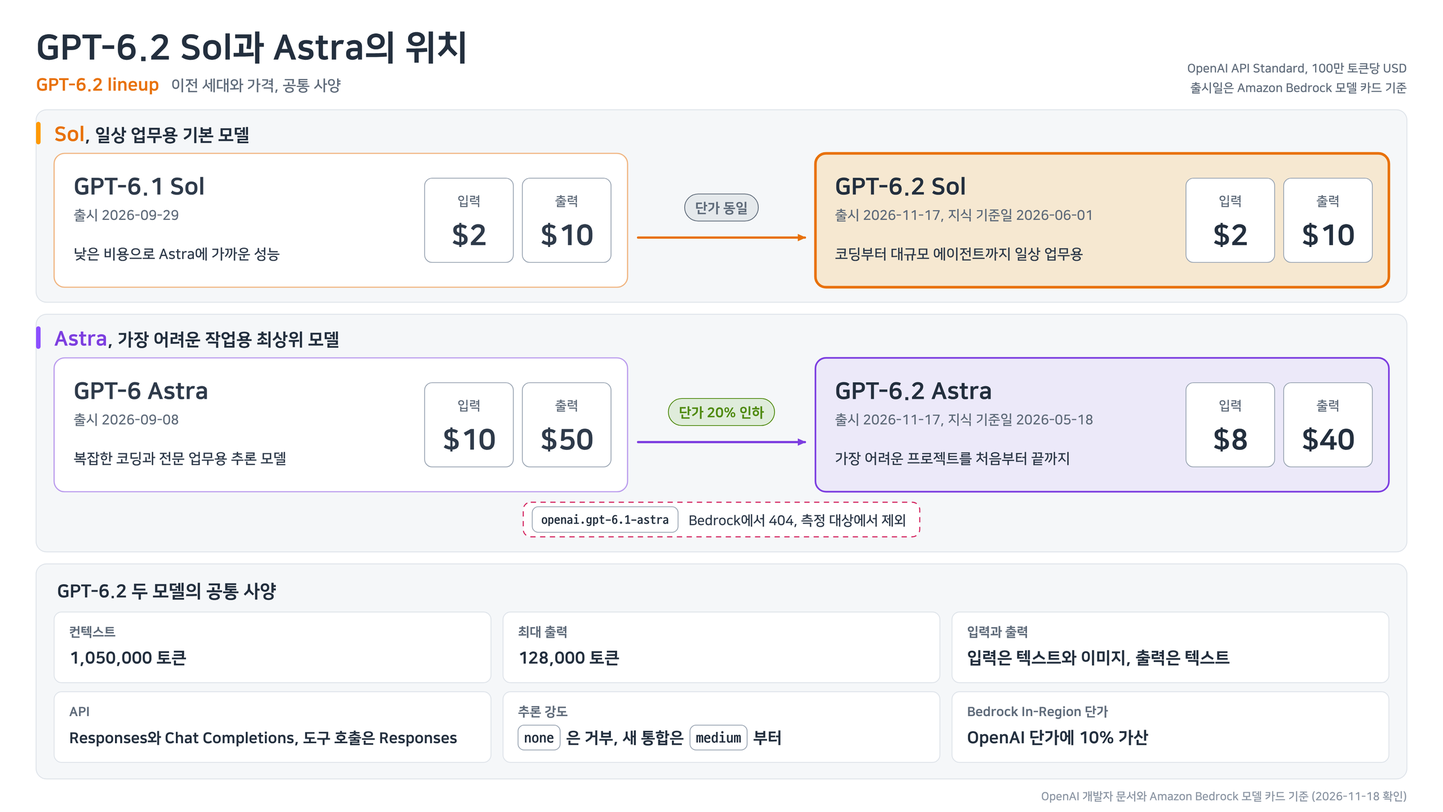
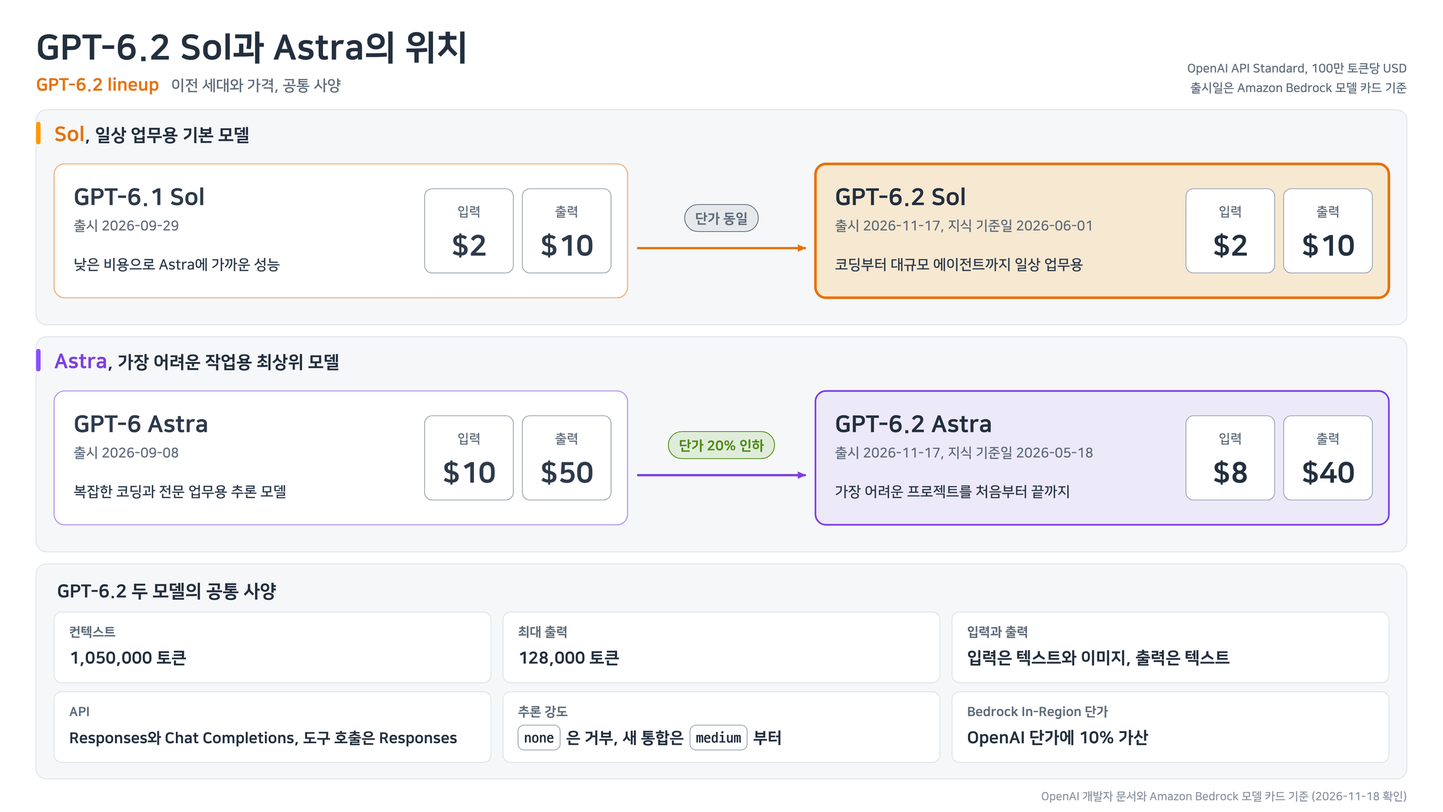
fix: reword the "GPT-6.2 Sol and Astra" post
- Korean wording: "수정하다" for fixing code, "비교하다" for comparing, "첫 결과" for the first
  response that was graded, "다음 챕터", "정확도의 한계", and "이 글은 두 가지를 비교해 봅니다"
- The sentence about the model ID openai.gpt-6.1-astra is removed from both languages, and the
  matching note is removed from figure 1
- The test Region sentence now names both In-Region and Mantle calls
- Figure 5 (Korean): "첫 결과" in the scope line

diff --git a/docs/techblog/aiml/gpt-6-2-sol-astra-official-vs-test-report.html b/docs/techblog/aiml/gpt-6-2-sol-astra-official-vs-test-report.html
@@ -4,7 +4,7 @@
 <meta charset="utf-8">
 <meta name="viewport" content="width=device-width, initial-scale=1">
 <title>GPT-6.2 Sol과 Astra, 공식 발표 내용과 실제 테스트 결과</title>
-<meta name="description" content="OpenAI가 공개한 GPT-6.2 Sol과 Astra의 공식 소개 내용을 정리하고 Amazon Bedrock에서 공개 Python 버그 24개로 직접 테스트한 결과와 비교했습니다. 네 모델 모두 24개를 고쳤고 GPT-6.2 Sol은 응답 시간, 출력 토큰, 비용이 모두 가장 낮았습니다.">
+<meta name="description" content="OpenAI가 공개한 GPT-6.2 Sol과 Astra의 공식 소개 내용을 정리하고 Amazon Bedrock에서 공개 Python 버그 24개로 직접 테스트한 결과와 비교했습니다. 네 모델 모두 24개를 수정했고 GPT-6.2 Sol은 응답 시간, 출력 토큰, 비용이 모두 가장 낮았습니다.">
 <link rel="canonical" href="https://whchoi98.github.io/docs/techblog/aiml/gpt-6-2-sol-astra-official-vs-test/">
 <script>
 /* 첫 화면을 그리기 전에 언어와 테마를 정한다. 블로그의 report 레이아웃이 같은 키를 미리 써 둔다. */
@@ -198,23 +198,23 @@ html[data-lang="en"] .l-ko{display:none!important}
 <header class="masthead">
 <div class="meta-top"><span class="mono"><span class="l-ko">게시 2026-11-18</span><span class="l-en">Published 2026-11-18</span></span><span>AIML</span><span><span class="l-ko">읽는 시간 16분</span><span class="l-en">16 min read</span></span></div>
 <h1><span class="l-ko">GPT-6.2 Sol과 Astra, 공식 발표 내용과 실제 테스트 결과</span><span class="l-en">GPT-6.2 Sol and Astra: the official announcement and real test results</span></h1>
-<p class="thesis"><span class="l-ko">OpenAI가 2026년 11월 17일에 공개한 GPT-6.2 Sol과 Astra의 공식 소개 내용을 정리하고 Amazon Bedrock에서 공개 Python 버그 24개를 고치게 해 실제로 테스트해 보았습니다. 이전 세대를 포함한 네 모델 모두 24개를 첫 제출에서 고쳐 정확도로는 순위를 가릴 수 없었습니다. 차이는 속도와 토큰에서 나왔습니다. GPT-6.2 Sol은 응답 시간 중앙값 1.56초, 출력 토큰 3,450개, 추정 비용 0.1169 USD로 세 항목 모두 가장 낮았습니다. 같은 추론 강도에서 추론 토큰을 거의 사용하지 않은 것이 원인이었습니다.</span><span class="l-en">This post summarizes what OpenAI officially said about GPT-6.2 Sol and Astra, released on November 17, 2026, and reports a hands-on test in which the models fixed 24 public Python bugs on Amazon Bedrock. All four models, including the previous generation, fixed all 24 on the first attempt, so accuracy could not rank them. The differences were in speed and tokens. GPT-6.2 Sol was lowest on all three measures: a median response time of 1.56 seconds, 3,450 output tokens and an estimated cost of 0.1169 USD. The cause was that it used almost no reasoning tokens at the same reasoning effort.</span></p>
+<p class="thesis"><span class="l-ko">OpenAI가 2026년 11월 17일에 공개한 GPT-6.2 Sol과 Astra의 공식 소개 내용을 정리하고 Amazon Bedrock에서 공개 Python 버그 24개를 수정하게 해 실제로 테스트해 보았습니다. 이전 세대를 포함한 네 모델 모두 24개를 첫 결과에서 수정해 정확도로는 순위를 가릴 수 없었습니다. 차이는 속도와 토큰에서 나왔습니다. GPT-6.2 Sol은 응답 시간 중앙값 1.56초, 출력 토큰 3,450개, 추정 비용 0.1169 USD로 세 항목 모두 가장 낮았습니다. 같은 추론 강도에서 추론 토큰을 거의 사용하지 않은 것이 원인이었습니다.</span><span class="l-en">This post summarizes what OpenAI officially said about GPT-6.2 Sol and Astra, released on November 17, 2026, and reports a hands-on test in which the models fixed 24 public Python bugs on Amazon Bedrock. All four models, including the previous generation, fixed all 24 on the first attempt, so accuracy could not rank them. The differences were in speed and tokens. GPT-6.2 Sol was lowest on all three measures: a median response time of 1.56 seconds, 3,450 output tokens and an estimated cost of 0.1169 USD. The cause was that it used almost no reasoning tokens at the same reasoning effort.</span></p>
 <div class="tags"><span>#GPT-6.2</span><span>#OpenAI</span><span>#Amazon Bedrock</span><span>#Benchmark</span><span>#Reasoning tokens</span><span>#Cost</span></div>
-<ul class="facts"><li><span class="l-ko"><b>정확도</b>: 네 모델 모두 공개 Python 버그 24개를 첫 제출에서 고쳤습니다. 이 테스트로는 정확도 순위를 정할 수 없습니다.</span><span class="l-en"><b>Accuracy</b>: all four models fixed all 24 public Python bugs on the first attempt. This test cannot rank them on accuracy.</span></li><li><span class="l-ko"><b>응답 속도</b>: GPT-6.2 Sol의 응답 시간 중앙값은 1.56초로 GPT-6.1 Sol의 7.99초보다 80% 짧았고 24개 과제 전부에서 네 모델 가운데 가장 빨랐습니다.</span><span class="l-en"><b>Response speed</b>: the median response time of GPT-6.2 Sol was 1.56 seconds, 80% shorter than the 7.99 seconds of GPT-6.1 Sol, and it was the fastest of the four on all 24 tasks.</span></li><li><span class="l-ko"><b>출력 토큰</b>: 같은 과제에서 출력 토큰이 8,708개에서 3,450개로 60% 줄었습니다. 추론 토큰이 5,854개에서 75개로 줄어든 결과입니다.</span><span class="l-en"><b>Output tokens</b>: on the same tasks output tokens fell 60%, from 8,708 to 3,450, because reasoning tokens fell from 5,854 to 75.</span></li><li><span class="l-ko"><b>가성비</b>: 단가는 GPT-6.1 Sol과 같고 24건 추정 비용은 29.5% 낮았습니다. GPT-6.2 Astra 비용의 약 5분의 1로, OpenAI의 설명과 같은 수준입니다.</span><span class="l-en"><b>Value for money</b>: the unit price equals that of GPT-6.1 Sol and the estimated cost of the 24 tasks was 29.5% lower. It is about one fifth of the cost of GPT-6.2 Astra, in line with what OpenAI describes.</span></li><li><span class="l-ko"><b>주의할 점</b>: 테스트까지 작성하는 기초 과제에서 GPT-6.2 Sol의 테스트는 결함 42건을 모두 잡았지만 지정한 예외 유형을 지킨 것은 36건이었습니다.</span><span class="l-en"><b>Caveat</b>: on the basic tasks that also asked for tests, the tests written by GPT-6.2 Sol caught all 42 injected defects but reported 36 of them with the requested exception type.</span></li></ul>
+<ul class="facts"><li><span class="l-ko"><b>정확도</b>: 네 모델 모두 공개 Python 버그 24개를 첫 결과에서 수정했습니다. 이 테스트로는 정확도 순위를 정할 수 없습니다.</span><span class="l-en"><b>Accuracy</b>: all four models fixed all 24 public Python bugs on the first attempt. This test cannot rank them on accuracy.</span></li><li><span class="l-ko"><b>응답 속도</b>: GPT-6.2 Sol의 응답 시간 중앙값은 1.56초로 GPT-6.1 Sol의 7.99초보다 80% 짧았고 24개 과제 전부에서 네 모델 가운데 가장 빨랐습니다.</span><span class="l-en"><b>Response speed</b>: the median response time of GPT-6.2 Sol was 1.56 seconds, 80% shorter than the 7.99 seconds of GPT-6.1 Sol, and it was the fastest of the four on all 24 tasks.</span></li><li><span class="l-ko"><b>출력 토큰</b>: 같은 과제에서 출력 토큰이 8,708개에서 3,450개로 60% 줄었습니다. 추론 토큰이 5,854개에서 75개로 줄어든 결과입니다.</span><span class="l-en"><b>Output tokens</b>: on the same tasks output tokens fell 60%, from 8,708 to 3,450, because reasoning tokens fell from 5,854 to 75.</span></li><li><span class="l-ko"><b>가성비</b>: 단가는 GPT-6.1 Sol과 같고 24건 추정 비용은 29.5% 낮았습니다. GPT-6.2 Astra 비용의 약 5분의 1로, OpenAI의 설명과 같은 수준입니다.</span><span class="l-en"><b>Value for money</b>: the unit price equals that of GPT-6.1 Sol and the estimated cost of the 24 tasks was 29.5% lower. It is about one fifth of the cost of GPT-6.2 Astra, in line with what OpenAI describes.</span></li><li><span class="l-ko"><b>주의할 점</b>: 테스트까지 작성하는 기초 과제에서 GPT-6.2 Sol의 테스트는 결함 42건을 모두 잡았지만 지정한 예외 유형을 지킨 것은 36건이었습니다.</span><span class="l-en"><b>Caveat</b>: on the basic tasks that also asked for tests, the tests written by GPT-6.2 Sol caught all 42 injected defects but reported 36 of them with the requested exception type.</span></li></ul>
 </header>
-<nav class="toc l-ko" aria-label="목차"><span class="toc-label">목차</span><a href="#ko-s1">같은 버그 24개, 응답 시간 중앙값이 7.99초에서 1.56초로</a><a href="#ko-s2">OpenAI가 소개한 GPT-6.2 Sol과 Astra</a><a href="#ko-s3">테스트 방법: 공개 Python 버그 24개와 기초 과제 3개</a><a href="#ko-s4">정확도: 네 모델 모두 24개를 첫 제출에서 수정</a><a href="#ko-s5">GPT-6.2 Sol의 응답 속도, 출력 토큰, 가성비</a><a href="#ko-s6">수치의 이유: 추론 토큰이 5,854개에서 75개로</a><a href="#ko-s7">공식 발표와 테스트 결과 비교</a><a href="#ko-s8">시사점: 같은 정답을 더 적은 토큰으로</a><a href="#ko-s9">주의할 점과 한계</a><a href="#ko-s10">적용 기준: 어떤 작업에 어느 모델을 먼저 쓸 것인가</a><a href="#sources">참고 자료</a></nav>
+<nav class="toc l-ko" aria-label="목차"><span class="toc-label">목차</span><a href="#ko-s1">같은 버그 24개, 응답 시간 중앙값이 7.99초에서 1.56초로</a><a href="#ko-s2">OpenAI가 소개한 GPT-6.2 Sol과 Astra</a><a href="#ko-s3">테스트 방법: 공개 Python 버그 24개와 기초 과제 3개</a><a href="#ko-s4">정확도: 네 모델 모두 24개를 첫 결과에서 수정</a><a href="#ko-s5">GPT-6.2 Sol의 응답 속도, 출력 토큰, 가성비</a><a href="#ko-s6">수치의 이유: 추론 토큰이 5,854개에서 75개로</a><a href="#ko-s7">공식 발표와 테스트 결과 비교</a><a href="#ko-s8">시사점: 같은 정답을 더 적은 토큰으로</a><a href="#ko-s9">주의할 점과 한계</a><a href="#ko-s10">적용 기준: 어떤 작업에 어느 모델을 먼저 쓸 것인가</a><a href="#sources">참고 자료</a></nav>
 <nav class="toc l-en" aria-label="Contents"><span class="toc-label">Contents</span><a href="#en-s1">The same 24 bugs, median response time from 7.99 to 1.56 seconds</a><a href="#en-s2">GPT-6.2 Sol and Astra as OpenAI introduced them</a><a href="#en-s3">Test method: 24 public Python bugs and 3 basic tasks</a><a href="#en-s4">Accuracy: all four models fixed all 24 on the first attempt</a><a href="#en-s5">GPT-6.2 Sol: response speed, output tokens and value for money</a><a href="#en-s6">Why the numbers moved: reasoning tokens from 5,854 to 75</a><a href="#en-s7">The official announcement against the test results</a><a href="#en-s8">What it means: the same correct answer for fewer tokens</a><a href="#en-s9">Caveats and limits</a><a href="#en-s10">When to apply it: which model to try first for which work</a><a href="#sources">References</a></nav>
 <div class="col l-ko" lang="ko">
 <section class="sec" id="ko-s1"><header class="sec-head"><h2>같은 버그 24개, 응답 시간 중앙값이 7.99초에서 1.56초로</h2></header><div class="prose">
-<p>OpenAI가 2026년 11월 17일에 GPT-6.2 Astra와 GPT-6.2 Sol을 공개했습니다. 다음 날 Amazon Bedrock에서 두 모델과 이전 세대인 GPT-6.1 Sol, GPT-6 Astra에 같은 Python 버그 24개를 고치게 했습니다. 네 모델 모두 24개를 첫 제출에서 고쳤습니다.</p>
+<p>OpenAI가 2026년 11월 17일에 GPT-6.2 Astra와 GPT-6.2 Sol을 공개했습니다. 다음 날 Amazon Bedrock에서 두 모델과 이전 세대인 GPT-6.1 Sol, GPT-6 Astra에 같은 Python 버그 24개를 수정하게 했습니다. 네 모델 모두 24개를 첫 결과에서 수정했습니다.</p>
 <p>차이는 시간과 토큰에서 나왔습니다. GPT-6.2 Sol의 응답 시간 중앙값은 1.56초로, 같은 과제를 푼 GPT-6.1 Sol의 7.99초보다 80% 짧았습니다. 출력 토큰은 8,708개에서 3,450개로 줄었습니다. 두 모델의 단가가 같아서 24건의 추정 비용도 29.5% 낮아졌습니다.</p>
-<p>이 글은 두 가지를 나란히 놓습니다. 하나는 OpenAI가 공식 문서와 공지에서 밝힌 GPT-6.2의 특징이고 다른 하나는 같은 조건에서 직접 테스트한 결과입니다. 공식 자료에는 기본 등급의 응답 속도를 수치로 밝힌 문장이 없습니다. 그래서 속도와 토큰 수는 테스트 결과로 확인했습니다.</p>
+<p>이 글은 두 가지를 비교해 봅니다. 하나는 OpenAI가 공식 문서와 공지에서 밝힌 GPT-6.2의 특징이고 다른 하나는 같은 조건에서 직접 테스트한 결과입니다. 공식 자료에는 기본 등급의 응답 속도를 수치로 밝힌 문장이 없습니다. 그래서 속도와 토큰 수는 테스트 결과로 확인했습니다.</p>
 <p>테스트는 수정할 위치가 주어진 짧은 과제이고 과제마다 모델당 한 번씩 실행했습니다. 결과를 일반화할 때의 한계는 글 뒤쪽에 따로 정리했습니다.</p>
 </div></section>
 
 <section class="sec" id="ko-s2"><header class="sec-head"><p class="eyebrow">01</p><h2>OpenAI가 소개한 GPT-6.2 Sol과 Astra</h2></header><div class="prose">
 <p>GPT-6.2는 두 모델로 나왔습니다. <a href="https://community.openai.com/t/gpt-6-2-astra-and-sol-are-now-available/1417531" target="_blank" rel="noopener">OpenAI 개발자 커뮤니티 공지</a>는 Astra를 가장 어려운 프로젝트를 위한 최상위 모델로, Sol을 일상 업무를 위한 효율적이고 다재다능한 모델로 소개합니다. 두 모델은 ChatGPT Work와 Codex, API에서 사용할 수 있습니다.</p>
-<p>어느 모델이 어느 모델의 다음 세대인지는 Amazon Bedrock 모델 카드에 적혀 있습니다. <a href="https://docs.aws.amazon.com/bedrock/latest/userguide/model-card-openai-gpt-6-2-sol.html" target="_blank" rel="noopener">GPT-6.2 Sol</a>은 GPT-6.1 Sol의 다음 세대이고 <a href="https://docs.aws.amazon.com/bedrock/latest/userguide/model-card-openai-gpt-6-2-astra.html" target="_blank" rel="noopener">GPT-6.2 Astra</a>는 GPT-6 Astra의 다음 세대입니다. Bedrock에 <code>openai.gpt-6.1-astra</code>라는 모델 ID를 요청하면 404가 돌아옵니다. 그래서 이 글에서 Astra의 비교 대상은 GPT-6 Astra입니다.</p>
+<p>어느 모델이 어느 모델의 다음 세대인지는 Amazon Bedrock 모델 카드에 적혀 있습니다. <a href="https://docs.aws.amazon.com/bedrock/latest/userguide/model-card-openai-gpt-6-2-sol.html" target="_blank" rel="noopener">GPT-6.2 Sol</a>은 GPT-6.1 Sol의 다음 세대이고 <a href="https://docs.aws.amazon.com/bedrock/latest/userguide/model-card-openai-gpt-6-2-astra.html" target="_blank" rel="noopener">GPT-6.2 Astra</a>는 GPT-6 Astra의 다음 세대입니다. 이 글에서 Astra의 비교 대상은 GPT-6 Astra입니다.</p>
 <figure class="fig"><div class="canvas wide"><img src="gpt-6-2-sol-astra-official-vs-test-assets/fig01-lineup.png" alt="Sol과 Astra 두 줄로 이전 세대와 GPT-6.2 모델의 출시일, 입력과 출력 단가, 한 줄 설명을 나란히 놓고 아래에 GPT-6.2 두 모델의 공통 사양 여섯 가지를 정리한 그림" width="1280" height="720" loading="lazy"></div><figcaption><b>그림 1.</b> GPT-6.2 Sol과 Astra의 이전 세대, 단가, 공통 사양. 단가는 OpenAI API Standard 기준이고 출시일은 Amazon Bedrock 모델 카드 기준</figcaption></figure>
 <h3>가격과 사양</h3>
 <p>Sol의 단가는 이전 세대와 같고 Astra의 단가는 입력과 출력 모두 20% 내렸습니다. 컨텍스트 크기와 최대 출력은 네 모델이 같습니다.</p>
@@ -234,7 +234,7 @@ html[data-lang="en"] .l-ko{display:none!important}
 </table></div>
 <p class="cap"><b>표 1.</b> OpenAI 개발자 문서의 모델 페이지에 적힌 사양. 단가는 Standard 등급, 입력 272,000토큰 이하 요청의 100만 토큰당 USD (2026-11-18 확인)</p>
 <h3>공식 자료가 말하는 특징</h3>
-<p>공지, <a href="https://developers.openai.com/api/docs/changelog" target="_blank" rel="noopener">Changelog</a>, 모델 페이지, <a href="https://developers.openai.com/api/docs/guides/latest-model?model=gpt-6.2-astra" target="_blank" rel="noopener">최신 모델 가이드</a>에서 이 글의 테스트와 견줄 내용을 뽑으면 여섯 가지입니다.</p>
+<p>공지, <a href="https://developers.openai.com/api/docs/changelog" target="_blank" rel="noopener">Changelog</a>, 모델 페이지, <a href="https://developers.openai.com/api/docs/guides/latest-model?model=gpt-6.2-astra" target="_blank" rel="noopener">최신 모델 가이드</a>에서 이 글의 테스트와 비교할 내용을 뽑으면 여섯 가지입니다.</p>
 <ul>
 <li><b>Sol의 비용 대비 성능</b>: 공지는 실제 코드베이스에 병합 가능한 변경을 만드는 FrontierCode 2.0 평가에서 Sol이 Astra에 근접한 결과를 약 5분의 1 비용에 냈다고 소개합니다.</li>
 <li><b>Astra의 작업당 비용</b>: 공지에는 GPT-6.2 Astra의 작업당 비용이 GPT-6 Astra의 3분의 1 미만이라는 문장이 있습니다. Agents' Last Exam 평가에서는 더 높은 점수를 절반 미만의 작업당 비용으로 냈다고 적혀 있습니다.</li>
@@ -243,7 +243,7 @@ html[data-lang="en"] .l-ko{display:none!important}
 <li><b>추론량 조절</b>: <a href="https://developers.openai.com/api/docs/guides/reasoning" target="_blank" rel="noopener">추론 가이드</a>에 따르면 추론 모델은 같은 추론 강도 안에서도 단순한 과제에는 토큰을 적게 사용하고 복잡한 과제에는 더 오래 생각합니다. 추론 토큰은 화면에 보이지 않지만 출력 토큰으로 과금됩니다.</li>
 <li><b>API 변경</b>: 두 모델은 Responses API와 Chat Completions를 지원하고 도구 호출에는 Responses API가 필요합니다. <code>temperature</code>와 <code>top_p</code> 같은 매개변수는 요청에서 빼야 합니다.</li>
 </ul>
-<p>응답 속도는 다르게 다룹니다. 공식 자료에 기본 등급의 속도를 이전 세대와 견준 수치는 없습니다. 속도 수치는 별도 요금의 Ultrafast 등급에만 있습니다. Bedrock 모델 카드는 OpenAI가 이 등급의 API 속도를 Standard보다 최대 6배 빠르다고 밝혔다고 적고 있고 요금은 2027년 2월 28일까지 Standard의 3배, 그 뒤에는 6배입니다.</p>
+<p>응답 속도는 다르게 다룹니다. 공식 자료에 기본 등급의 속도를 이전 세대와 비교한 수치는 없습니다. 속도 수치는 별도 요금의 Ultrafast 등급에만 있습니다. Bedrock 모델 카드는 OpenAI가 이 등급의 API 속도를 Standard보다 최대 6배 빠르다고 밝혔다고 적고 있고 요금은 2027년 2월 28일까지 Standard의 3배, 그 뒤에는 6배입니다.</p>
 <h3>Amazon Bedrock에서 호출하는 방법</h3>
 <p>두 모델은 출시일인 11월 17일부터 Amazon Bedrock에서 호출할 수 있습니다. 엔드포인트와 추론 옵션에 따라 모델 ID와 단가가 달라집니다. In-Region과 지역 교차 리전 추론(Geo CRIS)의 단가에는 OpenAI 단가의 10%가 더해져 있고 글로벌 교차 리전 추론(Global CRIS)은 OpenAI 단가와 같습니다.</p>
 <div class="scroll"><table>
@@ -257,11 +257,11 @@ html[data-lang="en"] .l-ko{display:none!important}
 </tbody>
 </table></div>
 <p class="cap"><b>표 2.</b> Amazon Bedrock 모델 카드의 호출 경로와 Standard 등급 단가. 입력 272,000토큰 이하 요청의 100만 토큰당 USD (2026-11-18 확인)</p>
-<p>서울 리전(ap-northeast-2)은 모델 카드에 <code>bedrock-runtime</code>의 Global CRIS만 지원하는 것으로 표시되어 있습니다. 서울에서 호출하려면 <code>global.</code>로 시작하는 추론 프로파일 ID를 사용합니다. 이 글의 테스트는 In-Region 호출이 가능한 us-east-1에서 진행했습니다.</p>
+<p>서울 리전(ap-northeast-2)은 모델 카드에 <code>bedrock-runtime</code>의 Global CRIS만 지원하는 것으로 표시되어 있습니다. 서울에서 호출하려면 <code>global.</code>로 시작하는 추론 프로파일 ID를 사용합니다. 이 글의 테스트는 In-Region 호출과 Mantle 호출이 가능한 us-east-1에서 진행했습니다.</p>
 </div></section>
 
 <section class="sec" id="ko-s3"><header class="sec-head"><p class="eyebrow">02</p><h2>테스트 방법: 공개 Python 버그 24개와 기초 과제 3개</h2></header><div class="prose">
-<p>테스트는 두 가지입니다. 중심은 공개 저장소의 실제 버그 24개를 고치는 과제이고 함수 수정과 테스트 작성을 함께 맡기는 기초 과제 3개를 따로 채점했습니다. 네 모델에 같은 프롬프트를 같은 설정으로 보냈습니다.</p>
+<p>테스트는 두 가지입니다. 중심은 공개 저장소의 실제 버그 24개를 수정하는 과제이고 함수 수정과 테스트 작성을 함께 맡기는 기초 과제 3개를 따로 채점했습니다. 네 모델에 같은 프롬프트를 같은 설정으로 보냈습니다.</p>
 <figure class="fig"><div class="canvas wide"><img src="gpt-6-2-sol-astra-official-vs-test-assets/fig02-setup.png" alt="과제 고르기, 프롬프트, 모델 호출, 첫 응답 적용, 채점의 다섯 단계를 왼쪽에서 오른쪽으로 놓고 아래에 기록한 값과 기초 과제를 정리한 테스트 구성 그림" width="1280" height="720" loading="lazy"></div><figcaption><b>그림 2.</b> 테스트 구성. 공개 버그 24개에서 응답 96건, 기초 과제에서 응답 24건을 받아 모두 120건을 채점</figcaption></figure>
 <div class="scroll"><table>
 <thead>
@@ -289,11 +289,11 @@ html[data-lang="en"] .l-ko{display:none!important}
 <p>응답 시간은 요청을 보낸 순간부터 전체 응답을 받은 순간까지입니다. 서비스 대기 시간과 출력 길이의 영향이 들어 있습니다. GPT-6.1 Sol, GPT-6.2 Sol, GPT-6.2 Astra는 같은 시간대에 최대 여섯 요청을 동시에 보냈고 GPT-6 Astra는 그 뒤에 따로 실행했습니다.</p>
 <p>비용은 응답에 기록된 토큰 사용량에 표 2의 In-Region 단가를 곱한 추정액입니다. 입력은 일반 입력, 캐시 쓰기, 캐시 읽기로 나눠 각각의 단가를 적용했습니다. 실제 청구서와 대조하지는 않았습니다.</p>
 </div></section>
-<section class="sec" id="ko-s4"><header class="sec-head"><p class="eyebrow">03</p><h2>정확도: 네 모델 모두 24개를 첫 제출에서 수정</h2></header><div class="prose">
+<section class="sec" id="ko-s4"><header class="sec-head"><p class="eyebrow">03</p><h2>정확도: 네 모델 모두 24개를 첫 결과에서 수정</h2></header><div class="prose">
 <p>정확도로는 네 모델의 순위를 정할 수 없었습니다. 공개 버그 24개에서 네 모델 모두 결함 검사와 기존 동작 검사를 전부 통과했습니다. 기초 과제의 기능 검사도 네 모델 모두 48묶음을 통과했습니다.</p>
 <div class="scroll"><table>
 <thead>
-<tr><th>모델</th><th>공개 버그 첫 제출 통과</th><th>기초 과제 기능 검사</th><th>테스트의 결함 감지</th><th>지정한 예외로 보고</th></tr>
+<tr><th>모델</th><th>공개 버그 첫 결과 통과</th><th>기초 과제 기능 검사</th><th>테스트의 결함 감지</th><th>지정한 예외로 보고</th></tr>
 </thead>
 <tbody>
 <tr><td>GPT-6.1 Sol</td><td class="num">24/24</td><td class="num">48/48</td><td class="num">42/42</td><td class="num">42/42</td></tr>
@@ -327,11 +327,11 @@ html[data-lang="en"] .l-ko{display:none!important}
 <p>분포를 보면 중앙값보다 폭의 차이가 더 큽니다. GPT-6.2 Sol의 응답은 가장 빠른 것이 1.18초, 가장 느린 것이 2.92초로 24개 모두 3초 안에 끝났습니다. GPT-6.1 Sol은 2.60초에서 30.64초까지 퍼져 있습니다. GPT-6.2 Sol의 가장 느린 응답이 GPT-6.1 Sol의 가장 빠른 응답과 비슷한 수준입니다.</p>
 <p>과제별로 보아도 결과가 같습니다. 24개 과제 전부에서 GPT-6.2 Sol이 네 모델 가운데 가장 먼저 응답을 끝냈습니다. 24건의 응답 시간을 더하면 GPT-6.1 Sol은 243.9초, GPT-6.2 Sol은 42.4초입니다.</p>
 <h3>출력 토큰</h3>
-<p>GPT-6.2 Sol의 출력 토큰은 3,450개로 GPT-6.1 Sol의 8,708개보다 60.4% 적었습니다. 네 모델 가운데 가장 적은 값입니다. 같은 문제를 같은 형식으로 답했는데 토큰 수가 이만큼 다른 이유는 다음 절에서 추론 토큰으로 설명합니다.</p>
+<p>GPT-6.2 Sol의 출력 토큰은 3,450개로 GPT-6.1 Sol의 8,708개보다 60.4% 적었습니다. 네 모델 가운데 가장 적은 값입니다. 같은 문제를 같은 형식으로 답했는데 토큰 수가 이만큼 다른 이유는 다음 챕터에서 추론 토큰으로 설명합니다.</p>
 <h3>가성비</h3>
 <p>Sol 두 모델의 단가는 같습니다. 그래서 줄어든 출력 토큰이 그대로 비용 차이가 됩니다. 24건의 추정 비용은 0.1658 USD에서 0.1169 USD로 29.5% 낮아졌고 해결 1건당 비용은 0.00487 USD입니다.</p>
-<p>Astra와 견주면 차이가 더 큽니다. GPT-6.2 Astra는 같은 24개를 고치는 데 0.5776 USD가 들어 GPT-6.2 Sol의 4.94배였습니다. 응답 시간 중앙값도 3.01초로 Sol의 1.9배입니다. 이 과제에서는 더 비싼 모델을 써서 얻은 정답 수의 이득이 없었습니다.</p>
-<p>Astra끼리 견주면 GPT-6.2 Astra도 이전 세대보다 나아졌습니다. 24건의 추정 비용이 GPT-6 Astra보다 33.0% 낮았고 응답 시간 중앙값은 5.60초에서 3.01초로 줄었습니다. 24개 과제 가운데 20개에서 GPT-6.2 Astra가 더 빨랐습니다.</p>
+<p>Astra와 비교하면 차이가 더 큽니다. GPT-6.2 Astra는 같은 24개를 수정하는 데 0.5776 USD가 들어 GPT-6.2 Sol의 4.94배였습니다. 응답 시간 중앙값도 3.01초로 Sol의 1.9배입니다. 이 과제에서는 더 비싼 모델을 써서 얻은 정답 수의 이득이 없었습니다.</p>
+<p>Astra끼리 비교하면 GPT-6.2 Astra도 이전 세대보다 나아졌습니다. 24건의 추정 비용이 GPT-6 Astra보다 33.0% 낮았고 응답 시간 중앙값은 5.60초에서 3.01초로 줄었습니다. 24개 과제 가운데 20개에서 GPT-6.2 Astra가 더 빨랐습니다.</p>
 <h3>기초 과제에서도 같은 방향</h3>
 <p>함수와 테스트를 함께 작성하는 기초 과제에서도 순서는 같았습니다. GPT-6.2 Sol의 응답 시간 중앙값은 3.57초로 GPT-6.1 Sol의 22.63초보다 84% 짧았고 출력 토큰은 47% 적었습니다.</p>
 <div class="scroll"><table>
@@ -377,11 +377,11 @@ html[data-lang="en"] .l-ko{display:none!important}
 <p>답의 형식에 따라 달랐습니다. JSON 수정안만 내는 공개 버그 과제에서는 보이는 답의 길이가 줄지 않았습니다. 코드와 테스트를 자유롭게 작성하는 기초 과제에서는 보이는 답이 GPT-6.2 Sol에서 42%, GPT-6.2 Astra에서 43% 짧아졌습니다. 가이드가 말한 더 간결한 응답은 자유 형식의 답에서 드러났습니다.</p>
 </div></section>
 <section class="sec" id="ko-s7"><header class="sec-head"><p class="eyebrow">06</p><h2>공식 발표와 테스트 결과 비교</h2></header><div class="prose">
-<p>공식 자료의 내용 여섯 가지를 테스트 결과와 하나씩 견주었습니다. 네 가지는 테스트 결과와 맞았고 한 가지는 수치가 달랐고 한 가지는 견줄 공식 수치가 없었습니다.</p>
-<figure class="fig"><div class="canvas wide"><img src="gpt-6-2-sol-astra-official-vs-test-assets/fig05-scorecard.png" alt="Sol 단가, Sol과 Astra, Astra 비용, 간결한 응답, 추론 강도, 응답 속도의 여섯 항목마다 OpenAI가 밝힌 내용과 테스트에서 본 값을 나란히 놓고 일치, 차이, 공식 수치 없음으로 판정한 표 모양 그림" width="1280" height="720" loading="lazy"></div><figcaption><b>그림 5.</b> OpenAI가 밝힌 내용과 테스트 결과의 비교. 판정은 수정 위치가 주어진 Python 버그 24개의 첫 제출이라는 범위 안에서만 유효</figcaption></figure>
+<p>공식 자료의 내용 여섯 가지를 테스트 결과와 하나씩 비교했습니다. 네 가지는 테스트 결과와 맞았고 한 가지는 수치가 달랐고 한 가지는 비교할 공식 수치가 없었습니다.</p>
+<figure class="fig"><div class="canvas wide"><img src="gpt-6-2-sol-astra-official-vs-test-assets/fig05-scorecard.png" alt="Sol 단가, Sol과 Astra, Astra 비용, 간결한 응답, 추론 강도, 응답 속도의 여섯 항목마다 OpenAI가 밝힌 내용과 테스트에서 본 값을 나란히 놓고 일치, 차이, 공식 수치 없음으로 판정한 표 모양 그림" width="1280" height="720" loading="lazy"></div><figcaption><b>그림 5.</b> OpenAI가 밝힌 내용과 테스트 결과의 비교. 판정은 수정 위치가 주어진 Python 버그 24개의 첫 결과라는 범위 안에서만 유효</figcaption></figure>
 <h3>테스트 결과와 맞은 내용</h3>
 <p><b>Sol의 단가는 그대로였고 실제 비용은 내려갔습니다.</b> OpenAI 모델 페이지의 단가도, Bedrock 모델 카드의 단가도 GPT-6.1 Sol과 같습니다. 같은 단가에서 토큰 사용량이 줄어 24건 비용이 29.5% 낮아졌습니다.</p>
-<p><b>Sol이 Astra의 약 5분의 1 비용이라는 설명은 이 테스트에서도 맞았습니다.</b> 두 모델 모두 24개를 고쳤고 Sol의 비용은 Astra의 4.94분의 1이었습니다. OpenAI가 인용한 평가와 과제는 다르지만 비율이 같은 수준으로 나왔습니다.</p>
+<p><b>Sol이 Astra의 약 5분의 1 비용이라는 설명은 이 테스트에서도 맞았습니다.</b> 두 모델 모두 24개를 수정했고 Sol의 비용은 Astra의 4.94분의 1이었습니다. OpenAI가 인용한 평가와 과제는 다르지만 비율이 같은 수준으로 나왔습니다.</p>
 <p><b>응답이 더 간결하다는 설명도 맞았습니다.</b> 출력 토큰은 Sol에서 60%, Astra에서 32% 줄었습니다. 가이드는 글의 길이를 말하고 있고 이 테스트에서는 줄어든 양의 대부분이 추론 토큰이었다는 점이 다릅니다.</p>
 <p><b>과제에 맞춰 추론량을 조절한다는 설명과 측정값이 같은 방향입니다.</b> 가이드가 권한 <code>medium</code>에서 GPT-6.2 Sol은 24개 가운데 22개 과제를 추론 토큰 없이 답했고 모두 정답이었습니다.</p>
 <h3>수치가 달랐던 내용</h3>
@@ -411,7 +411,7 @@ html[data-lang="en"] .l-ko{display:none!important}
 <h3>결과를 일반화할 때의 한계</h3>
 <ul>
 <li><b>과제 범위</b>: 증상과 관련 코드를 준 상태에서 첫 수정안의 성공 여부를 본 테스트입니다. 버그 위치를 찾는 일, 저장소 탐색, 도구 사용, 여러 단계에 걸친 작업은 포함하지 않았습니다.</li>
-<li><b>정확도의 천장</b>: 네 모델이 모두 만점이어서 더 어려운 과제에서 차이가 나는지는 알 수 없습니다. OpenAI가 Astra의 용도로 소개한 복잡한 작업은 이 테스트의 범위 밖입니다.</li>
+<li><b>정확도의 한계</b>: 네 모델이 모두 만점이어서 더 어려운 과제에서 차이가 나는지는 알 수 없습니다. OpenAI가 Astra의 용도로 소개한 복잡한 작업은 이 테스트의 범위 밖입니다.</li>
 <li><b>실행 횟수</b>: 공개 버그는 과제마다 모델당 한 번, 기초 과제는 두 번 실행했습니다. 같은 요청을 반복했을 때의 편차는 재지 않았습니다.</li>
 <li><b>응답 시간</b>: 서비스 대기 시간과 동시 요청의 영향이 들어 있습니다. GPT-6 Astra는 다른 세 모델과 다른 시각에 실행했습니다.</li>
 <li><b>리전</b>: us-east-1의 In-Region 호출입니다. 서울 리전에서 Global CRIS로 호출할 때의 응답 시간은 재지 않았습니다.</li>
@@ -450,13 +450,13 @@ html[data-lang="en"] .l-ko{display:none!important}
 <section class="sec" id="en-s1"><header class="sec-head"><h2>The same 24 bugs, median response time from 7.99 to 1.56 seconds</h2></header><div class="prose">
 <p>OpenAI released GPT-6.2 Astra and GPT-6.2 Sol on November 17, 2026. The next day I had those two models and their predecessors, GPT-6.1 Sol and GPT-6 Astra, fix the same 24 Python bugs on Amazon Bedrock. All four models fixed all 24 on the first attempt.</p>
 <p>The differences were in time and tokens. The median response time of GPT-6.2 Sol was 1.56 seconds, 80% shorter than the 7.99 seconds GPT-6.1 Sol took on the same tasks. Output tokens fell from 8,708 to 3,450. The two models have the same unit price, so the estimated cost of the 24 tasks was 29.5% lower as well.</p>
-<p>This post puts two things side by side. One is what OpenAI says about GPT-6.2 in its official docs and announcement, and the other is what a hands-on test under the same conditions showed. The official material gives no figure for response speed on the default tier. So speed and token counts come from the test.</p>
+<p>This post compares two things. One is what OpenAI says about GPT-6.2 in its official docs and announcement, and the other is what a hands-on test under the same conditions showed. The official material gives no figure for response speed on the default tier. So speed and token counts come from the test.</p>
 <p>The tasks are short, the location of the fix is given, and each task was run once per model. The limits on generalizing the results are collected in a later section.</p>
 </div></section>
 
 <section class="sec" id="en-s2"><header class="sec-head"><p class="eyebrow">01</p><h2>GPT-6.2 Sol and Astra as OpenAI introduced them</h2></header><div class="prose">
 <p>GPT-6.2 comes as two models. The <a href="https://community.openai.com/t/gpt-6-2-astra-and-sol-are-now-available/1417531" target="_blank" rel="noopener">announcement on the OpenAI Developer Community</a> introduces Astra as the most capable model for the hardest projects and Sol as an efficient and versatile model for everyday work. Both are available in ChatGPT Work, Codex and the API.</p>
-<p>The Amazon Bedrock model cards say which model succeeds which. <a href="https://docs.aws.amazon.com/bedrock/latest/userguide/model-card-openai-gpt-6-2-sol.html" target="_blank" rel="noopener">GPT-6.2 Sol</a> is the next generation of GPT-6.1 Sol and <a href="https://docs.aws.amazon.com/bedrock/latest/userguide/model-card-openai-gpt-6-2-astra.html" target="_blank" rel="noopener">GPT-6.2 Astra</a> is the next generation of GPT-6 Astra. A request to Bedrock for the model ID <code>openai.gpt-6.1-astra</code> returns 404. So in this post Astra is compared with GPT-6 Astra.</p>
+<p>The Amazon Bedrock model cards say which model succeeds which. <a href="https://docs.aws.amazon.com/bedrock/latest/userguide/model-card-openai-gpt-6-2-sol.html" target="_blank" rel="noopener">GPT-6.2 Sol</a> is the next generation of GPT-6.1 Sol and <a href="https://docs.aws.amazon.com/bedrock/latest/userguide/model-card-openai-gpt-6-2-astra.html" target="_blank" rel="noopener">GPT-6.2 Astra</a> is the next generation of GPT-6 Astra. In this post Astra is compared with GPT-6 Astra.</p>
 <figure class="fig"><div class="canvas wide"><img src="gpt-6-2-sol-astra-official-vs-test-assets/fig01-lineup-en.png" alt="Two lanes, Sol and Astra, each showing the previous model and the GPT-6.2 model with launch date, input and output price and a one-line description, and below them six specs shared by both GPT-6.2 models" width="1280" height="720" loading="lazy"></div><figcaption><b>Figure 1.</b> Predecessors, unit prices and shared specs of GPT-6.2 Sol and Astra. Prices are OpenAI API Standard and launch dates are from the Amazon Bedrock model cards</figcaption></figure>
 <h3>Prices and specs</h3>
 <p>The unit price of Sol is the same as its predecessor and the unit price of Astra is 20% lower for both input and output. The context size and the maximum output are the same for all four models.</p>
@@ -499,7 +499,7 @@ html[data-lang="en"] .l-ko{display:none!important}
 </tbody>
 </table></div>
 <p class="cap"><b>Table 2.</b> Call paths and Standard tier prices from the Amazon Bedrock model cards. USD per 1 million tokens for requests with 272,000 input tokens or fewer (checked 2026-11-18)</p>
-<p>The model cards list the Seoul Region (ap-northeast-2) as supporting only Global CRIS on <code>bedrock-runtime</code>. To call from Seoul, use the inference profile ID that starts with <code>global.</code>. The test in this post ran in us-east-1, where In-Region calls are possible.</p>
+<p>The model cards list the Seoul Region (ap-northeast-2) as supporting only Global CRIS on <code>bedrock-runtime</code>. To call from Seoul, use the inference profile ID that starts with <code>global.</code>. The test in this post ran in us-east-1, where In-Region calls and Mantle calls are possible.</p>
 </div></section>
 
 <section class="sec" id="en-s3"><header class="sec-head"><p class="eyebrow">02</p><h2>Test method: 24 public Python bugs and 3 basic tasks</h2></header><div class="prose">
@@ -653,7 +653,7 @@ html[data-lang="en"] .l-ko{display:none!important}
 <h3>Limits on generalizing the results</h3>
 <ul>
 <li><b>Scope of the tasks</b>: the test looked at whether the first fix succeeds when the symptom and the related code are given. Locating a bug, exploring a repository, using tools and multi-step work were not included.</li>
-<li><b>Accuracy ceiling</b>: all four models scored full marks, so whether they differ on harder tasks is unknown. The complex work OpenAI introduces as Astra's purpose is outside this test.</li>
+<li><b>Accuracy limit</b>: all four models scored full marks, so whether they differ on harder tasks is unknown. The complex work OpenAI introduces as Astra's purpose is outside this test.</li>
 <li><b>Number of runs</b>: each public bug was run once per model and each basic task twice. The variation across repeats of the same request was not measured.</li>
 <li><b>Response time</b>: it includes service wait time and the effect of concurrent requests. GPT-6 Astra was run at a different time from the other three models.</li>
 <li><b>Region</b>: these are In-Region calls in us-east-1. Response time when calling through Global CRIS from the Seoul Region was not measured.</li>

diff --git a/docs/techblog/aiml/gpt-6-2-sol-astra-official-vs-test.md b/docs/techblog/aiml/gpt-6-2-sol-astra-official-vs-test.md
@@ -8,6 +8,6 @@ category: AIML
 tags: ["GPT-6.2", "OpenAI", "Amazon Bedrock", "Benchmark", "Reasoning tokens", "Cost"]
 icon: bedrock
 minutes: 16
-excerpt: "OpenAI가 공개한 GPT-6.2 Sol과 Astra의 공식 소개 내용을 정리하고 Amazon Bedrock에서 공개 Python 버그 24개로 직접 테스트한 결과와 비교했습니다. 네 모델 모두 24개를 고쳤고 GPT-6.2 Sol은 응답 시간, 출력 토큰, 비용이 모두 가장 낮았습니다."
+excerpt: "OpenAI가 공개한 GPT-6.2 Sol과 Astra의 공식 소개 내용을 정리하고 Amazon Bedrock에서 공개 Python 버그 24개로 직접 테스트한 결과와 비교했습니다. 네 모델 모두 24개를 수정했고 GPT-6.2 Sol은 응답 시간, 출력 토큰, 비용이 모두 가장 낮았습니다."
 excerpt_en: "This post summarizes what OpenAI officially said about GPT-6.2 Sol and Astra and compares it with a hands-on test on Amazon Bedrock using 24 public Python bugs. All four models fixed all 24, and GPT-6.2 Sol had the lowest response time, output tokens and cost."
 ---
